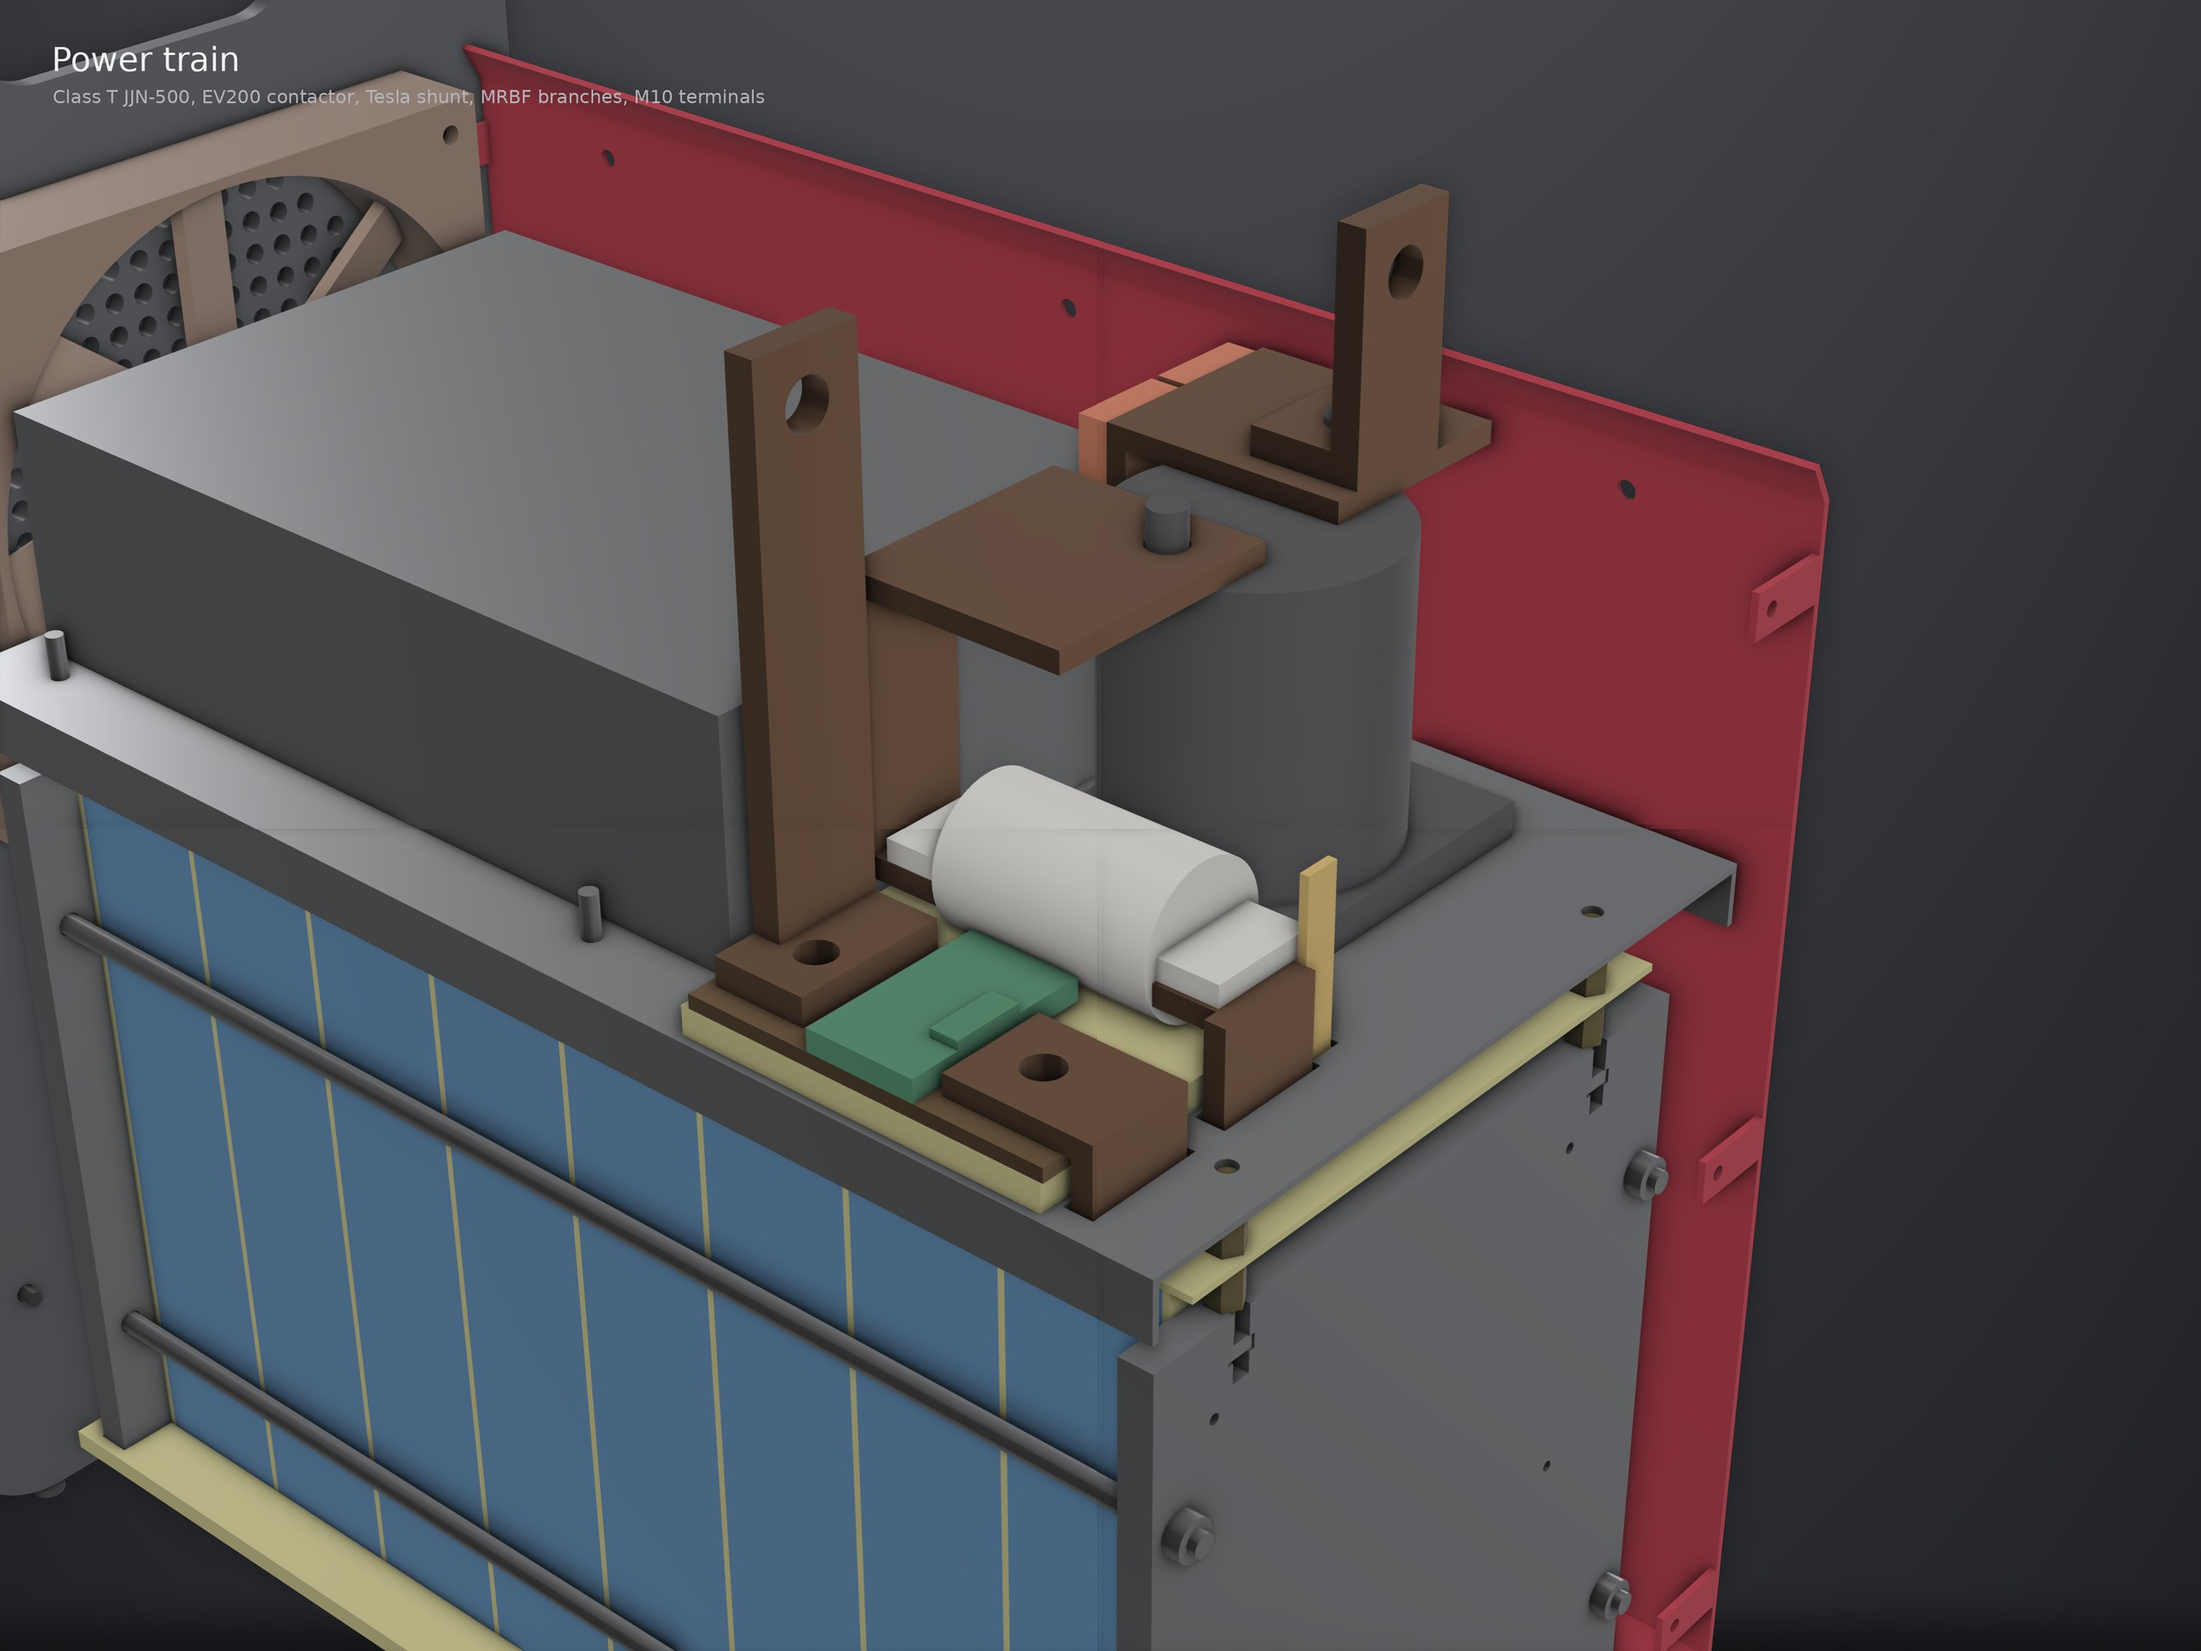
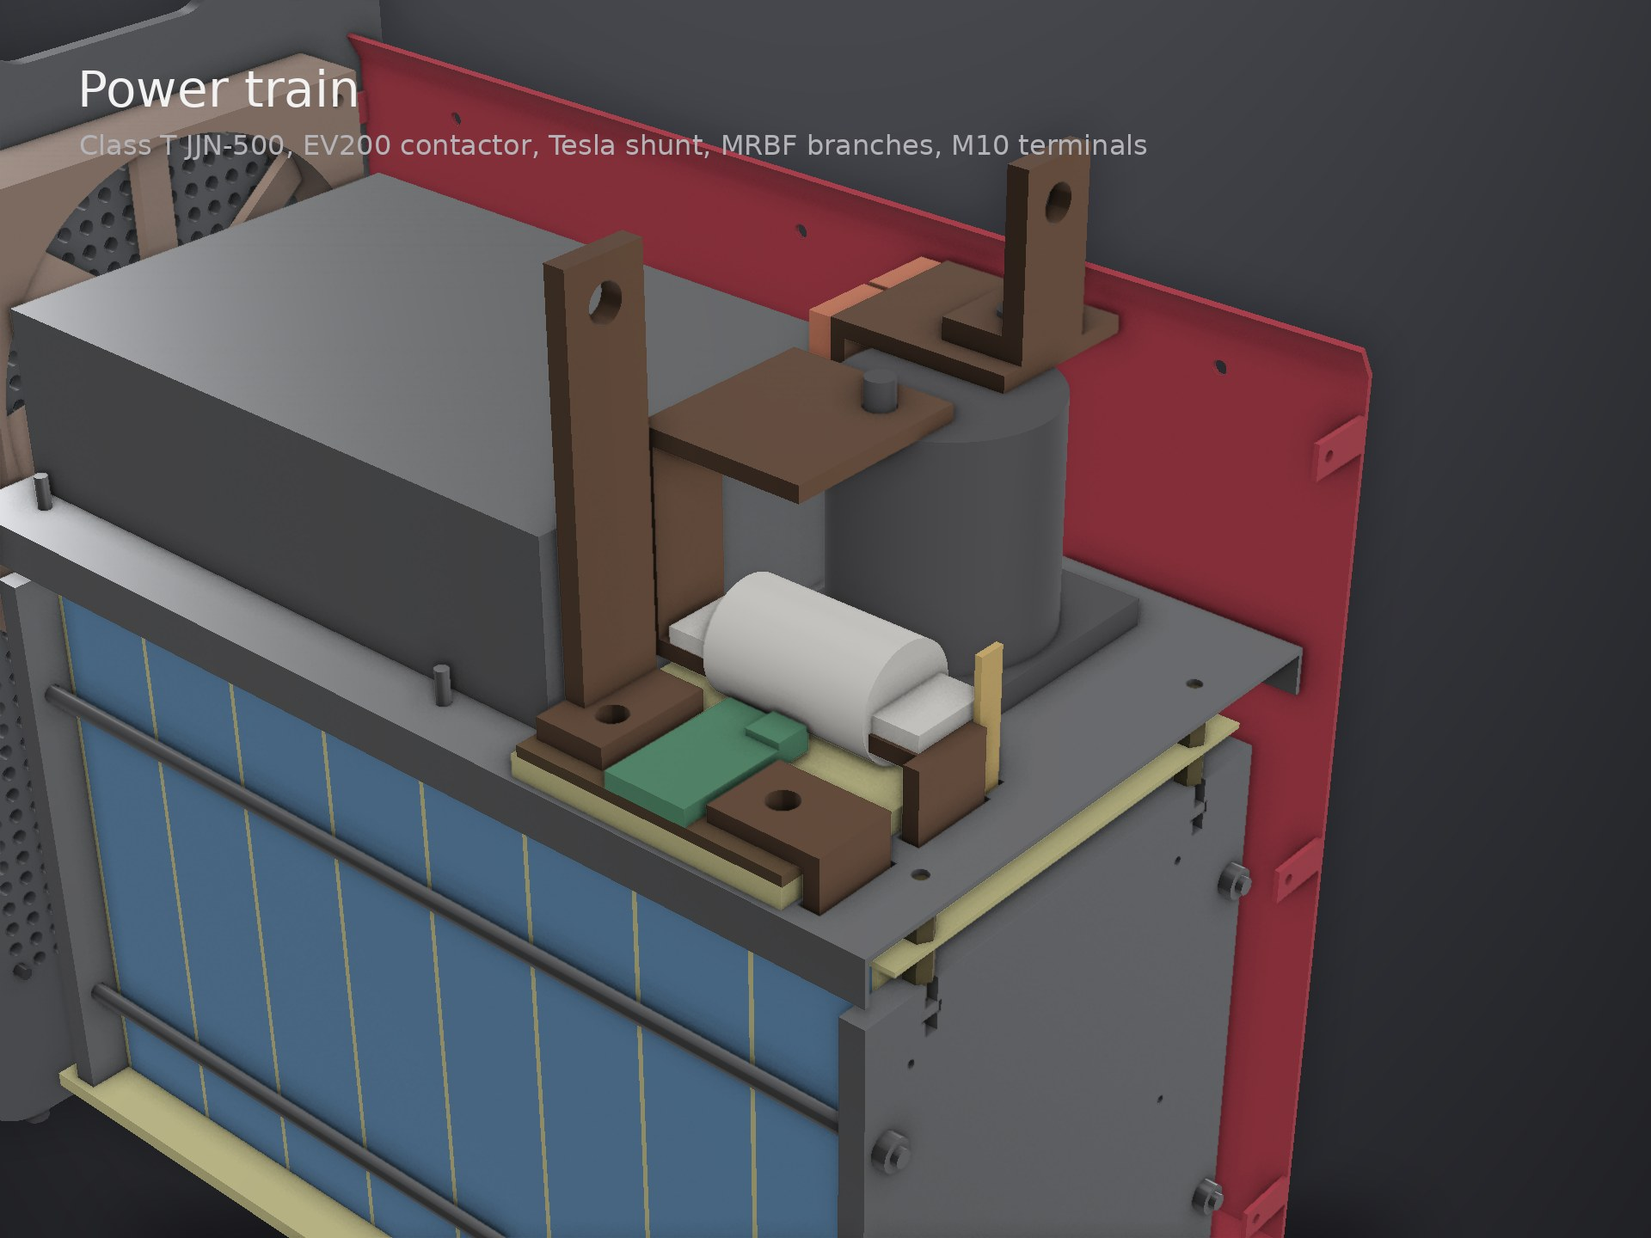
v14 draft renders (full rear grid, shunt connector on overhang), exploded PCB view
Claude-Session: https://claude.ai/code/session_019xZm2LVcTLqQVj33rtF5Qi

diff --git a/cad/render_v14_nice.py b/cad/render_v14_nice.py
@@ -95,10 +95,12 @@ def shot(fname, title, keep=None, hide=(), explode=None, view=(1.0, -1.1, 0.6), 
     p.camera.up = (0, 0, 1)
     p.camera.view_angle = 24
     p.camera.zoom(zoom)
-    p.enable_ssao(radius=12, bias=0.5, kernel_size=128, blur=True)
-    p.enable_anti_aliasing("ssaa")
+    DRAFT = os.environ.get("DRAFT") == "1"            # draft: no SSAA, light SSAO, 1x scale (~10x faster)
+    p.enable_ssao(radius=12, bias=0.5, kernel_size=32 if DRAFT else 128, blur=True)
+    if not DRAFT:
+        p.enable_anti_aliasing("ssaa")
     f = os.path.join(OUT, fname)
-    p.screenshot(f, scale=2, transparent_background=True)
+    p.screenshot(f, scale=1 if os.environ.get("DRAFT") == "1" else 2, transparent_background=True)
     p.close()
     fg = Image.open(f).convert("RGBA")
     W, Hh = fg.size
@@ -163,6 +165,13 @@ if __name__ == "__main__":
     if w("top"):
         shot("v14_08_top.png", "Lid", sub="Outlet, C14 inlet, push-button, M10 DC terminals", view=(0.35, -0.55, 1.4), focal=(40, 0, 320),
              dist=1200, zoom=1.15)
+    if w("pcb"):
+        ex = {"lid": (0, 0, 420), "screws_lid": (0, 0, 420), "pem_lid_panel": (0, 0, 420), "panel_": (0, 0, 470), "screws_panel": (0, 0, 490),
+              "term_plates": (0, 0, 440), "ctrl_": (0, 0, 190), "cb_standoffs": (0, 0, 95), "screws_trays": (0, 0, 0),
+              "inverter": (0, 0, 120), "tray2": (0, 0, 100), "inv_posts": (0, 0, 80), "cable_": (0, 0, 2000)}
+        shot("v14_10_pcb_exploded.png", "Where the control board sits", sub="Lifted 190 mm: it lives above the Class T fuse and Tesla shunt, on 3 standoffs",
+             explode=ex, hide=("body_half_A", "plate_front", "screws_f", "ledboard", "diffuser", "pipe", "screws_panelmount", "panel_standoffs", "antenna"),
+             view=(0.75, -1.0, 0.85), focal=(90, -30, 300), dist=1100, zoom=1.0)
     if w("section"):
         shot("v14_09_section.png", "Section at y = -29 (fuse axis)", clip=((0, 1, 0), (0, -29.0, 0)),
              view=(0.05, 1.0, 0.12), focal=(40, 0, 200), dist=1300, zoom=1.0, floor=False)

diff --git a/versions/v14-4s2p-power-train/README.md b/versions/v14-4s2p-power-train/README.md
@@ -4,6 +4,8 @@
 
 ![hero](renders/v14_01_hero.jpg)
 
+*Renders are drafts (no anti-aliasing) for fast iteration; studio versions come at the next milestone.*
+
 | At a glance | v13 | **v14** |
 |---|---|---|
 | Configuration | 8S1P, 25.6 V, 105 Ah | **4S2P, 12.8 V, 210 Ah** (2.69 kWh unchanged) |
@@ -33,7 +35,7 @@
 | 9 | **Terminal screws M4 × 8** (pole thread M4 × 6 ⚠) | EVE spec rev B | R C3 |
 | 10 | **Flex:** spine at y −17, 5 M3 taps into tapped busbars, ring + FR4 stiffener, **NTC on each tap tab**, tail up at x 146–148 to the board | Flex baselined; fusible taps; thermistors on the clamped joint | N §1 |
 | 11 | **Front checkerboard:** 287 air holes (Ø6 in the diffuser and LED board vs Ø4.8 in the plate); panel fitted inside the ±93.4 mm interior; 4 M3 screws behind text pixels into module standoffs | No air inlet in v13 (review C4); v13 panel clashed with the walls | N §10, §10a |
-| 12 | **Rear grille only inside the fan circle** (213 holes, was 703) | Stops the fan short-circuiting | R C4 |
+| 12 | **Rear grid kept full** (looks). Cooling check: ≈ 10 K air rise at 75 W, thanks to the front air holes | Through-flow needs an inlet at the opposite end | N §11 |
 | 13 | **G10 deck 2** (inverter isolation); inverter screws M3 × 5 (1.8 mm penetration ≤ 2.5) | Floating pack; inverter DC input assumed bonded to its case | R M6 |
 | 14 | **Antenna** behind the light-pipe slot; ESP32-S3-WROOM-1U | Metal box ≈ 26 dB loss | R C5 |
 | 15 | **Lid:** outlet, C14 inlet, **push-button**, 2 terminal slots; M12 and Anderson removed | Button-only wake; CAN is internal | N §9a |
@@ -74,7 +76,9 @@
 | ![panel](renders/v14_07_panel.jpg) | ![top](renders/v14_08_top.jpg) |
 | LED panel sandwich | Lid |
 | ![rear](renders/v14_02_rear.jpg) | ![section](renders/v14_09_section.jpg) |
-| Rear grille | Section at the fuse axis |
+| Rear grid | Section at the fuse axis |
+| ![pcb](renders/v14_10_pcb_exploded.jpg) | |
+| Control board lifted from its spot | |
 
 ---
 ← [v13](../v13-lip-rods-zstraps/README.md) · [index](../README.md)
